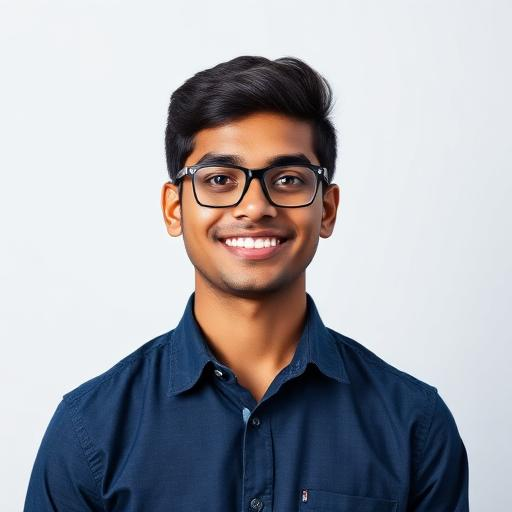
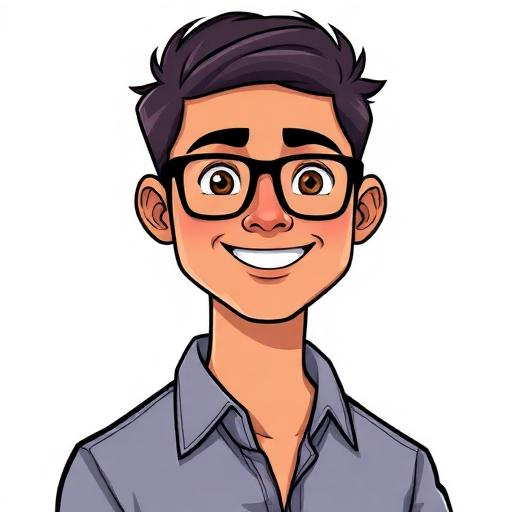
Refactor: Update portfolio with new theme and content
- Replaced profile photo with a cartoon character.
- Updated color theme to black and red across all pages.
- Shortened interests and passions in the About Me section.
- Removed the "Full Stack Dashboard" project.
- Updated the Certificates section to indicate upcoming certifications.
- Removed the learning philosophy section.

diff --git a/src/components/Certificates.tsx b/src/components/Certificates.tsx
@@ -4,203 +4,26 @@ import { Button } from "@/components/ui/button";
 import { Award, Calendar, ExternalLink, Star } from "lucide-react";
 
 export function Certificates() {
-  const upcomingCertifications = [
-    {
-      name: "CompTIA Security+",
-      organization: "CompTIA",
-      description: "Industry-standard certification covering cybersecurity fundamentals, risk management, and threat detection.",
-      status: "In Progress",
-      expectedDate: "Q2 2024",
-      priority: "high"
-    },
-    {
-      name: "AWS Certified Security - Specialty",
-      organization: "Amazon Web Services",
-      description: "Advanced certification focusing on cloud security best practices and AWS security services.",
-      status: "Planned",
-      expectedDate: "Q3 2024",
-      priority: "high"
-    },
-    {
-      name: "Certified Ethical Hacker (CEH)",
-      organization: "EC-Council",
-      description: "Comprehensive certification for ethical hacking methodologies and penetration testing.",
-      status: "Planned",
-      expectedDate: "Q4 2024",
-      priority: "medium"
-    },
-    {
-      name: "CISSP",
-      organization: "ISC²",
-      description: "Advanced certification for cybersecurity professionals covering eight security domains.",
-      status: "Future Goal",
-      expectedDate: "2025",
-      priority: "medium"
-    }
-  ];
-
-  const completedCourses = [
-    {
-      name: "Introduction to Cybersecurity",
-      organization: "NIIT University",
-      date: "2023",
-      type: "Academic Course"
-    },
-    {
-      name: "Web Development Fundamentals",
-      organization: "Self-Study",
-      date: "2023",
-      type: "Online Course"
-    },
-    {
-      name: "Docker Containerization",
-      organization: "Docker Inc.",
-      date: "2024",
-      type: "Online Course"
-    }
-  ];
-
-  const getStatusColor = (status: string) => {
-    switch (status) {
-      case "In Progress":
-        return "bg-yellow-500/10 text-yellow-600 border-yellow-500/20";
-      case "Planned":
-        return "bg-blue-500/10 text-blue-600 border-blue-500/20";
-      case "Future Goal":
-        return "bg-purple-500/10 text-purple-600 border-purple-500/20";
-      default:
-        return "bg-muted text-muted-foreground";
-    }
-  };
-
-  const getPriorityIcon = (priority: string) => {
-    return priority === "high" ? (
-      <Star className="h-4 w-4 text-yellow-500 fill-yellow-500" />
-    ) : null;
-  };
 
   return (
     <section id="certificates" className="py-20">
       <div className="max-w-7xl mx-auto px-4 sm:px-6 lg:px-8">
         <div className="text-center mb-12">
           <h2 className="text-3xl md:text-4xl font-bold mb-4">
-            Certificates & <span className="hero-gradient bg-clip-text text-transparent">Learning</span>
+            <span className="hero-gradient bg-clip-text text-transparent">Certificates</span>
           </h2>
           <p className="text-lg text-muted-foreground max-w-2xl mx-auto">
-            My journey of continuous learning in cybersecurity and development, 
-            with planned certifications to enhance my expertise.
+            Certifications are coming soon.
           </p>
         </div>
 
-        <div className="grid lg:grid-cols-2 gap-8 mb-12">
-          
-          {/* Upcoming Certifications */}
-          <div className="space-y-6">
-            <h3 className="text-2xl font-semibold flex items-center gap-2">
-              <Award className="h-6 w-6 text-primary" />
-              Upcoming Certifications
-            </h3>
-            
-            <div className="space-y-4">
-              {upcomingCertifications.map((cert, index) => (
-                <Card key={index} className="glass-card hover:shadow-lg transition-all duration-300">
-                  <CardHeader className="pb-3">
-                    <div className="flex items-start justify-between">
-                      <div className="flex-1">
-                        <div className="flex items-center gap-2 mb-2">
-                          <CardTitle className="text-lg">{cert.name}</CardTitle>
-                          {getPriorityIcon(cert.priority)}
-                        </div>
-                        <p className="text-sm text-muted-foreground">{cert.organization}</p>
-                      </div>
-                      <Badge className={getStatusColor(cert.status)} variant="outline">
-                        {cert.status}
-                      </Badge>
-                    </div>
-                  </CardHeader>
-                  <CardContent>
-                    <p className="text-sm text-muted-foreground mb-4 leading-relaxed">
-                      {cert.description}
-                    </p>
-                    <div className="flex items-center justify-between">
-                      <div className="flex items-center gap-2 text-sm text-muted-foreground">
-                        <Calendar className="h-4 w-4" />
-                        Expected: {cert.expectedDate}
-                      </div>
-                      <Button variant="outline" size="sm" disabled>
-                        <ExternalLink className="mr-2 h-4 w-4" />
-                        Coming Soon
-                      </Button>
-                    </div>
-                  </CardContent>
-                </Card>
-              ))}
-            </div>
-          </div>
-
-          {/* Completed Courses */}
-          <div className="space-y-6">
-            <h3 className="text-2xl font-semibold flex items-center gap-2">
-              <Award className="h-6 w-6 text-accent" />
-              Completed Learning
-            </h3>
-            
-            <div className="space-y-4">
-              {completedCourses.map((course, index) => (
-                <Card key={index} className="glass-card">
-                  <CardContent className="p-4">
-                    <div className="flex items-start justify-between">
-                      <div className="flex-1">
-                        <h4 className="font-medium mb-1">{course.name}</h4>
-                        <p className="text-sm text-muted-foreground mb-2">{course.organization}</p>
-                        <Badge variant="secondary" className="text-xs">
-                          {course.type}
-                        </Badge>
-                      </div>
-                      <div className="text-sm text-muted-foreground">
-                        {course.date}
-                      </div>
-                    </div>
-                  </CardContent>
-                </Card>
-              ))}
-              
-              {/* More courses placeholder */}
-              <Card className="glass-card border-dashed border-border/50">
-                <CardContent className="p-6 text-center">
-                  <Award className="h-8 w-8 text-muted-foreground mx-auto mb-2" />
-                  <p className="text-sm text-muted-foreground">
-                    More courses and certifications will be added as I complete them.
-                  </p>
-                </CardContent>
-              </Card>
-            </div>
-          </div>
-        </div>
-
-        {/* Learning Philosophy */}
-        <Card className="glass-card max-w-4xl mx-auto">
+        <Card className="glass-card max-w-2xl mx-auto">
           <CardContent className="p-8 text-center">
-            <h3 className="text-xl font-semibold mb-4">Continuous Learning Philosophy</h3>
-            <p className="text-muted-foreground leading-relaxed mb-6">
-              In the rapidly evolving fields of cybersecurity and technology, staying current is crucial. 
-              I believe in hands-on learning, practical application, and earning industry-recognized 
-              certifications that validate my skills and knowledge.
+            <Award className="h-12 w-12 text-primary mx-auto mb-4" />
+            <h3 className="text-xl font-semibold mb-4">Certifications Coming Soon</h3>
+            <p className="text-muted-foreground">
+              I'm currently working towards obtaining industry-standard certifications in cybersecurity and development.
             </p>
-            <div className="grid md:grid-cols-3 gap-6 text-center">
-              <div>
-                <div className="text-2xl font-bold text-primary mb-1">4+</div>
-                <div className="text-sm text-muted-foreground">Certifications Planned</div>
-              </div>
-              <div>
-                <div className="text-2xl font-bold text-accent mb-1">3+</div>
-                <div className="text-sm text-muted-foreground">Courses Completed</div>
-              </div>
-              <div>
-                <div className="text-2xl font-bold text-primary mb-1">∞</div>
-                <div className="text-sm text-muted-foreground">Learning Never Stops</div>
-              </div>
-            </div>
           </CardContent>
         </Card>
       </div>

diff --git a/src/index.css b/src/index.css
@@ -7,36 +7,36 @@
 @layer base {
   :root {
     /* Light theme colors */
-    --background: 0 0% 100%;
-    --foreground: 240 10% 3.9%;
+    --background: 0 0% 98%;
+    --foreground: 0 0% 10%;
     
     --card: 0 0% 100%;
-    --card-foreground: 240 10% 3.9%;
+    --card-foreground: 0 0% 10%;
     
     --popover: 0 0% 100%;
-    --popover-foreground: 240 10% 3.9%;
+    --popover-foreground: 0 0% 10%;
     
-    --primary: 262 83% 58%;
+    --primary: 0 100% 45%;
     --primary-foreground: 0 0% 98%;
     
-    --secondary: 220 14.3% 95.9%;
-    --secondary-foreground: 220.9 39.3% 11%;
+    --secondary: 0 0% 96%;
+    --secondary-foreground: 0 0% 10%;
     
-    --muted: 220 14.3% 95.9%;
-    --muted-foreground: 220 8.9% 46.1%;
+    --muted: 0 0% 96%;
+    --muted-foreground: 0 0% 45%;
     
-    --accent: 193 95% 68%;
-    --accent-foreground: 220.9 39.3% 11%;
+    --accent: 0 100% 50%;
+    --accent-foreground: 0 0% 98%;
     
     --destructive: 0 84.2% 60.2%;
-    --destructive-foreground: 210 40% 98%;
+    --destructive-foreground: 0 0% 98%;
     
-    --border: 220 13% 91%;
-    --input: 220 13% 91%;
-    --ring: 262 83% 58%;
+    --border: 0 0% 90%;
+    --input: 0 0% 90%;
+    --ring: 0 100% 45%;
     
     /* Portfolio specific colors */
-    --hero-gradient: linear-gradient(135deg, hsl(262 83% 58%) 0%, hsl(193 95% 68%) 100%);
+    --hero-gradient: linear-gradient(135deg, hsl(0 100% 45%) 0%, hsl(0 100% 25%) 100%);
     --glass-bg: rgba(255, 255, 255, 0.1);
     --glass-border: rgba(255, 255, 255, 0.2);
     --skill-card-bg: hsl(0 0% 100%);
@@ -63,40 +63,40 @@
 
   .dark {
     /* Dark theme colors */
-    --background: 240 10% 3.9%;
+    --background: 0 0% 3%;
     --foreground: 0 0% 98%;
     
-    --card: 240 10% 8%;
+    --card: 0 0% 5%;
     --card-foreground: 0 0% 98%;
     
-    --popover: 240 10% 8%;
+    --popover: 0 0% 5%;
     --popover-foreground: 0 0% 98%;
     
-    --primary: 262 83% 58%;
+    --primary: 0 100% 50%;
     --primary-foreground: 0 0% 98%;
     
-    --secondary: 240 3.7% 15.9%;
+    --secondary: 0 0% 10%;
     --secondary-foreground: 0 0% 98%;
     
-    --muted: 240 3.7% 15.9%;
-    --muted-foreground: 240 5% 64.9%;
+    --muted: 0 0% 10%;
+    --muted-foreground: 0 0% 65%;
     
-    --accent: 193 95% 68%;
-    --accent-foreground: 240 10% 3.9%;
+    --accent: 0 100% 60%;
+    --accent-foreground: 0 0% 98%;
     
     --destructive: 0 72% 51%;
     --destructive-foreground: 0 0% 98%;
     
-    --border: 240 3.7% 15.9%;
-    --input: 240 3.7% 15.9%;
-    --ring: 262 83% 58%;
+    --border: 0 0% 15%;
+    --input: 0 0% 15%;
+    --ring: 0 100% 50%;
     
     /* Portfolio specific dark colors */
-    --hero-gradient: linear-gradient(135deg, hsl(262 83% 58%) 0%, hsl(193 95% 68%) 100%);
+    --hero-gradient: linear-gradient(135deg, hsl(0 100% 50%) 0%, hsl(0 100% 30%) 100%);
     --glass-bg: rgba(255, 255, 255, 0.05);
     --glass-border: rgba(255, 255, 255, 0.1);
-    --skill-card-bg: hsl(240 10% 8%);
-    --project-card-bg: hsl(240 10% 8%);
+    --skill-card-bg: hsl(0 0% 5%);
+    --project-card-bg: hsl(0 0% 5%);
     --sidebar-background: 240 5.9% 10%;
     --sidebar-foreground: 240 4.8% 95.9%;
     --sidebar-primary: 224.3 76.3% 48%;

diff --git a/src/components/About.tsx b/src/components/About.tsx
@@ -60,15 +60,8 @@ export function About() {
                     Interests & Passion
                   </h3>
                   <p className="text-muted-foreground leading-relaxed">
-                    I'm passionate about creating secure, innovative solutions that make a real-world impact. 
-                    My journey in computer science has led me to explore the fascinating intersection of 
-                    cybersecurity and full-stack development, where I can build robust applications while 
-                    ensuring they're protected against digital threats.
-                  </p>
-                  <p className="text-muted-foreground leading-relaxed">
-                    When I'm not coding, you'll find me researching the latest security vulnerabilities, 
-                    experimenting with new technologies, or contributing to open-source projects that 
-                    enhance digital security for everyone.
+                    I'm passionate about cybersecurity and full-stack development, focusing on building 
+                    secure applications and researching digital threats.
                   </p>
                 </div>
               </CardContent>
@@ -111,16 +104,6 @@ export function About() {
               </CardContent>
             </Card>
 
-            {/* Fun Fact */}
-            <Card className="glass-card border-accent/20">
-              <CardContent className="p-6">
-                <h3 className="text-lg font-semibold mb-2 text-accent">Fun Fact</h3>
-                <p className="text-sm text-muted-foreground">
-                  I've simulated over 100 different types of cyber attacks in controlled environments 
-                  to better understand how to defend against them! 🛡
-                </p>
-              </CardContent>
-            </Card>
           </div>
         </div>
       </div>

diff --git a/src/components/Projects.tsx b/src/components/Projects.tsx
@@ -31,19 +31,6 @@ export function Projects() {
         "Detection algorithms"
       ]
     },
-    {
-      title: "Full-Stack Security Dashboard",
-      description: "Comprehensive security monitoring dashboard built with modern web technologies. Features real-time monitoring, threat visualization, and automated response systems.",
-      stack: ["React", "Express.js", "MongoDB", "Docker", "Python"],
-      icon: Server,
-      category: "Web Development",
-      features: [
-        "Real-time monitoring",
-        "Interactive dashboards",
-        "Automated alerts",
-        "Mobile responsive design"
-      ]
-    }
   ];
 
   return (
@@ -59,7 +46,7 @@ export function Projects() {
           </p>
         </div>
 
-        <div className="grid lg:grid-cols-3 gap-8">
+        <div className="grid lg:grid-cols-2 gap-8">
           {projects.map((project, index) => (
             <Card key={index} className="project-card border-border/50 h-full">
               <CardHeader className="pb-4">
